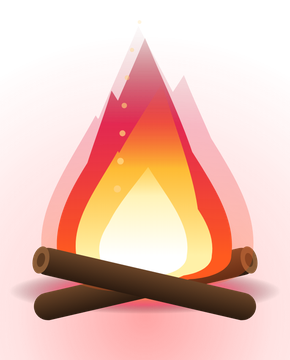
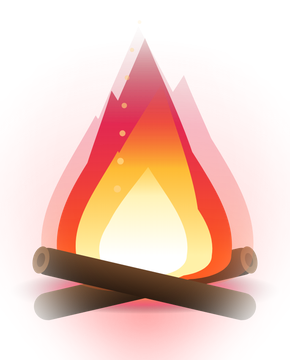
Polish the widgets: soften the campfire glow, keep the small badge card's title in view, align macro bars
Claude-Session: https://claude.ai/code/session_01Rat8t3BtQL3QZXFmgdohBf

Changed region(s): [[0.0, 0.6722, 1.0, 1.0]]

diff --git a/artifacts/forge-fit/widgets/WidgetCards.tsx b/artifacts/forge-fit/widgets/WidgetCards.tsx
@@ -86,7 +86,7 @@ function CaloriesCard({ model, t, p, size }: { model: WidgetModel; t: Copy; p: P
   const over = model.calorieGoal !== null && model.caloriesEaten > model.calorieGoal;
   const big = model.calorieGoal === null ? '—' : String(over ? model.caloriesEaten - model.calorieGoal : model.caloriesLeft ?? 0);
   const bigSize = clamp(Math.min(size.height * 0.24, (inner - ring) * 0.3), 22, 40);
-  const barWidth = Math.max(40, Math.round(wide ? inner * 0.5 : inner - 52));
+  const barWidth = Math.max(40, Math.round(wide ? inner - 58 - 74 : inner - 44));
   const colors: Record<string, ColorProp> = { protein: p.accent, carbs: p.success, fat: '#FF6A2B' };
   return (
     <Shell route="nutrition" background={p.card}>
@@ -106,10 +106,10 @@ function CaloriesCard({ model, t, p, size }: { model: WidgetModel; t: Copy; p: P
       <FlexWidget style={{ width: 'match_parent', flexDirection: 'column' }}>
         {model.macros.map((macro) => (
           <FlexWidget key={macro.key} style={{ width: 'match_parent', flexDirection: 'row', alignItems: 'center', justifyContent: 'space-between', marginTop: 4 }}>
-            <Text text={t[macro.key]} size={10} color={p.muted} />
-            <FlexWidget style={{ flexDirection: 'row', alignItems: 'center' }}>
+            <FlexWidget style={{ width: wide ? 58 : 44 }}><Text text={t[macro.key]} size={10} color={p.muted} /></FlexWidget>
+            <FlexWidget style={{ flexDirection: 'row', alignItems: 'center', justifyContent: 'flex-end' }}>
               <Bar width={barWidth} height={5} progress={macro.goal ? macro.eaten / macro.goal : 0} color={colors[macro.key]} track={p.track} />
-              {wide ? <FlexWidget style={{ marginLeft: 8 }}><Text text={macro.goal ? `${macro.eaten}/${macro.goal} g` : `${macro.eaten} g`} size={10} color={p.ink} /></FlexWidget> : null}
+              {wide ? <FlexWidget style={{ width: 66, marginLeft: 8 }}><Text align="right" text={macro.goal ? `${macro.eaten}/${macro.goal} g` : `${macro.eaten} g`} size={10} color={p.ink} /></FlexWidget> : null}
             </FlexWidget>
           </FlexWidget>
         ))}
@@ -231,12 +231,12 @@ function WeekCard({ model, t, p, size }: { model: WidgetModel; t: Copy; p: Palet
 function NextBadgeCard({ model, t, p, size }: { model: WidgetModel; t: Copy; p: Palette; size: Size }) {
   const medal = model.nextBadgeId ? badgeMedalImages[model.nextBadgeId] : undefined;
   const wide = size.width >= 230;
-  const art = clamp(Math.min(size.height * (wide ? 0.62 : 0.42), size.width * 0.4), 40, 96);
+  const art = clamp(Math.min(size.height * (wide ? 0.62 : 0.3), size.width * 0.4), 36, 96);
   const inner = wide ? size.width - 28 - art - 12 : size.width - 28;
   const color = (tierColor[model.nextBadgeTier ?? 'gold'] ?? p.accent) as ColorProp;
   const details = model.nextBadge ? (
     <FlexWidget style={{ flexDirection: 'column', width: inner }}>
-      <Text text={model.nextBadgeTitle} size={clamp(inner * 0.11, 12, 17)} color={p.ink} heavy lines={2} />
+      <Text text={model.nextBadgeTitle} size={clamp(inner * 0.1, 12, 17)} color={p.ink} heavy lines={wide ? 2 : 1} />
       <FlexWidget style={{ marginTop: 6 }}><Bar width={inner} height={6} progress={model.nextBadgeProgress} color={color} track={p.track} /></FlexWidget>
       <FlexWidget style={{ marginTop: 4 }}><Text text={`${model.nextBadgeRemaining} ${t.toGo}`} size={11} color={p.muted} /></FlexWidget>
     </FlexWidget>
